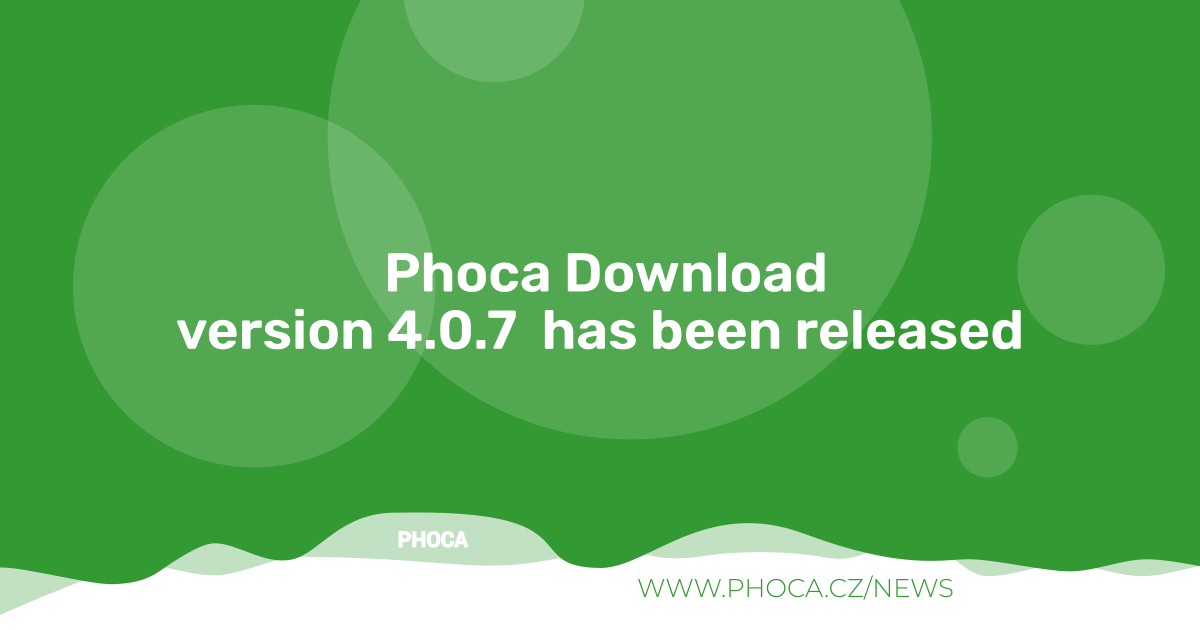
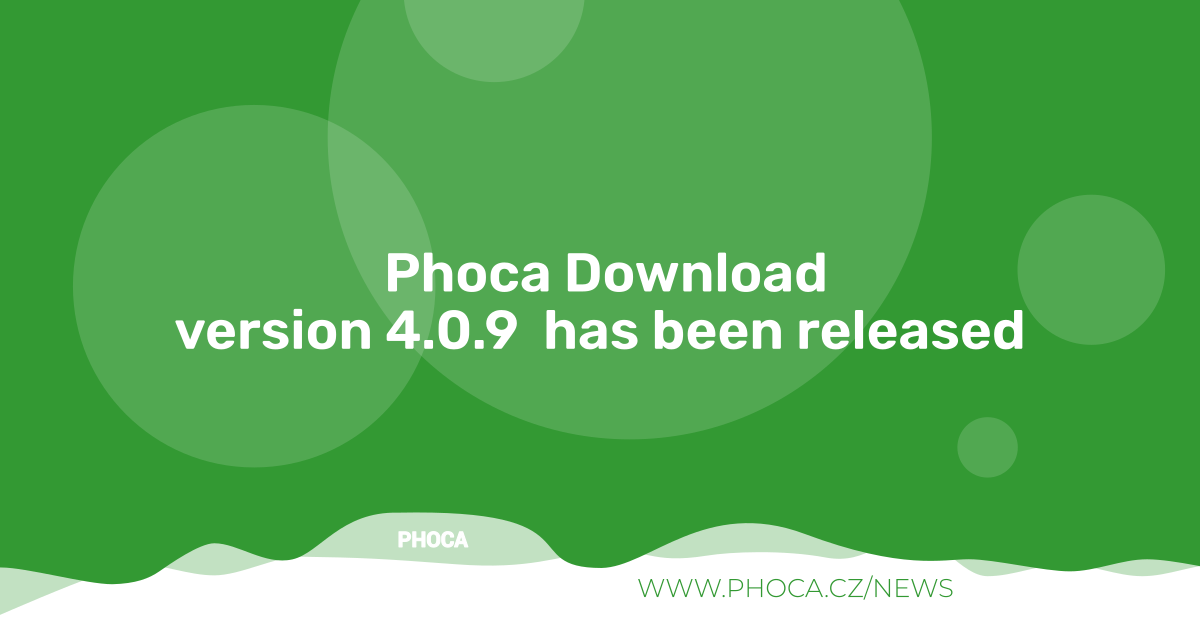
4.0.9

Changed region(s): [[0.4625, 0.4825, 0.8633, 0.573], [0.1542, 0.4825, 0.4317, 0.573]]

diff --git a/site/models/phocadownloadlinkfile.php b/site/models/phocadownloadlinkfile.php
@@ -39,7 +39,7 @@ class PhocaDownloadViewPhocaDownloadLinkFilePagination extends Pagination
 			}
 		}
 
-		$data->all = new JPaginationObject(Text::_('JLIB_HTML_VIEW_ALL'), $this->prefix);
+		$data->all = new PaginationObject(Text::_('JLIB_HTML_VIEW_ALL'), $this->prefix);
 
 		if (!$this->viewall)
 		{
@@ -48,8 +48,8 @@ class PhocaDownloadViewPhocaDownloadLinkFilePagination extends Pagination
 		}
 
 		// Set the start and previous data objects.
-		$data->start = new JPaginationObject(Text::_('JLIB_HTML_START'), $this->prefix);
-		$data->previous = new JPaginationObject(Text::_('JPREV'), $this->prefix);
+		$data->start = new PaginationObject(Text::_('JLIB_HTML_START'), $this->prefix);
+		$data->previous = new PaginationObject(Text::_('JPREV'), $this->prefix);
 
 		if ($this->pagesCurrent > 1)
 		{
@@ -70,8 +70,8 @@ class PhocaDownloadViewPhocaDownloadLinkFilePagination extends Pagination
 		}
 
 		// Set the next and end data objects.
-		$data->next = new JPaginationObject(Text::_('JNEXT'), $this->prefix);
-		$data->end = new JPaginationObject(Text::_('JLIB_HTML_END'), $this->prefix);
+		$data->next = new PaginationObject(Text::_('JNEXT'), $this->prefix);
+		$data->end = new PaginationObject(Text::_('JLIB_HTML_END'), $this->prefix);
 
 		if ($this->pagesCurrent < $this->pagesTotal)
 		{

diff --git a/admin/views/phocadownloadfile/tmpl/edit_text.php b/admin/views/phocadownloadfile/tmpl/edit_text.php
@@ -9,6 +9,7 @@
  defined('_JEXEC') or die;
 use Joomla\CMS\HTML\HTMLHelper;
 use Joomla\CMS\Language\Text;
+use Joomla\CMS\Factory;
 /*JHtml::_('behavior.tooltip');
 JHtml::_('behavior.formvalidation');
 JHtml::_('behavior.keepalive');

diff --git a/README.MD b/README.MD
@@ -96,11 +96,11 @@ Phoca Download is download manager for Joomla! CMS. It includes component, modul
 
 ## Version (Joomla! 4.x)
 
-4.0.7
+4.0.9
 
 ## Version (Joomla! 5.x)
 
-5.0.0Beta
+5.0.0Beta3
 
 
 
